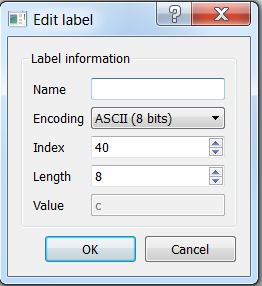
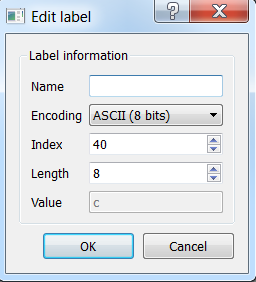
edited user doc

diff --git a/Rapport/docUser/sets.tex b/Rapport/docUser/sets.tex
@@ -1,7 +1,7 @@
-Avant toute chose, il est nécessaire de créer ou d'ouvrir un set; un set correspond à un groupe de dumps qui seront ouvert en même temps.
+Avant toute chose, il est nécessaire de créer ou d'ouvrir un set de dumps; un set de dumps correspond à un groupe de dumps qui seront ouvert en même temps. Nous appellerons "Set" les sets de dumps.
 Un set peut donc servir soit de fichier "projet", pour réouvrir tout les dumps précédement utilisés, ou de groupe de dumps similaires.
-Un set est un fichier avec l'extention .mk qui contient les adresses sur le disque des dumps à ouvrir; si vous avez une erreur au chargement d'un set, vérifiez si les dumps sont aux bons endroits.
+Un set est un fichier avec l'extention .ds qui contient les adresses sur le disque des dumps à ouvrir; si vous avez une erreur au chargement d'un set, vérifiez si les dumps sont aux bons endroits.
 Dans le cas de la création d'un set, il faudra le nommer (en cliquant dessus) puis lui rajouter des dumps. Cela s'effectue en cliquant sur "Dumps/Add Dump".
-Il peut arriver qu'un fichier se retrouve par erreur dans un set, ou qu'il ne soit plus nécessaire; la fonction "Dumps/remove Dump" permet de retirer du set le dump sélectionné.
-Les fonctions "Dumps/Save set" et "Dumps/Save set as ..." permettent de sauvegarder un set, pour pouvoir reprendre le travail plus tard sur les mêmes données. Un set ne contients que les positions des Dumps, veillez à ne pas déplacer vos dumps ou les supprimer, ou vous risqueriez de provoquer des erreurs !
+Il peut arriver qu'un fichier se retrouve par erreur dans un set, ou qu'il ne soit plus nécessaire; la fonction Remove Dump du menu Dump permet de retirer du set le dump sélectionné.
+Les fonctions "Save set" et "Save set as ..." du menu Dump permettent de sauvegarder un set, pour pouvoir reprendre le travail plus tard sur les mêmes données. Un set ne contients que les positions des Dumps, veillez à ne pas déplacer vos dumps ou les supprimer, ou vous risqueriez de provoquer des erreurs !
 Un click sur un autre dump actualise l'interface avec ces nouvelles données.

diff --git a/Rapport/docUser/description_interface.tex b/Rapport/docUser/description_interface.tex
@@ -12,10 +12,10 @@ Le premier volet (1) contient la liste des ensembles de dumps actuellement étud
 
 Le second volet (2) affiche la liste des champs identifiés par l'utilisateur. Au fur et à mesure de l'analyse du dump, les données collectées permettent de comprendre la structure du fichier.
 
-La zone d'affichage principale (3) correspond à une visualisation des données du dump, qui peut être sous la forme de texte avec un encodage choisi au préalable comme sur la figure \ref{interface}, ou bien sous forme de bitmap.
+La zone d'affichage principale (3) correspond à une visualisation des données du dump, qui peut être sous la forme de texte avec un encodage choisi au préalable comme sur la figure \ref{interface}, ou bien sous forme de bitmap (voir partie vue).
 
 Les menus donnent accès aux différents outils d'analyse, ainsi qu'à la sauvegarde et au chargement de dumps, de dump sets ou de masques.
 
 L'interface utilisateur est entièrement fluide et les volets peuvent être détachés ou déplacés pour que l'utilisateur puisse organiser son espace de travail comme il le souhaite.
 
-Une description complète du logiciel est disponible dans la documentation utilisateur, où se trouvent également les adresses de télechargement de versions compilées et prêtes à l'emploi pour Windows et Linux.
+Une description complète des fonctionalitées est disponible plus loin dans cette documentation, où se trouvent également les adresses de télechargement de versions compilées et prêtes à l'emploi pour Windows et Linux.

diff --git a/Rapport/docUser/vues.tex b/Rapport/docUser/vues.tex
@@ -1,10 +1,10 @@
-Les vues sont accessibles via les différents onglets. Il y a pour le moment 3 vues :
+Les vues sont accessibles via les différents onglets. Il y a 3 vues différentes :
 \begin{description}
   \item[Text] \hfill \\
-  Elle permet de visualiser l'intégralitée du dump sous l'encodage spécifié dans le selecteur "Encoding". Le décalage peut être géré via la case Offset. L'utilisation du bouton Add et de la case Label Name sera décrite dans la partie Labels.
+  Elle permet de visualiser l'intégralitée du dump sous l'encodage spécifié dans le selecteur "Encoding". Le décalage peut être géré via la case Offset. Le bouton Add et de la case Label Name permettent d'ajouter de nouveaux labels. Leur fonctionnement détaillé est décrit dans la partie Labels.
   
   \item[Hexadecimal] \hfill \\
-  Elle permet de visualiser le dump sous forme hexadécimale. Le nombre de bits est visible sur la gauche. Cette vue permet entre autre de repérer les motifs qui se répètent, tels que les séparateurs.
+  Elle permet de visualiser le dump sous forme hexadécimale. L'offset est visible sur la gauche. Cette vue permet entre autre de repérer les motifs qui se répètent, tels que les séparateurs.
 
   \item[Bitmap] \hfill \\
   Elle permet de visualiser le dump courant sous forme de carrés de couleur. Cette vue permet entre autre de repérer les morceaux qui se répètent.

diff --git a/Rapport/docUser/algorithms-dotplot.tex b/Rapport/docUser/algorithms-dotplot.tex
@@ -2,7 +2,7 @@ Cette fonction, accessible via le menu Algorithms, permet d'afficher les segment
 
 \begin{figure}[!h]
   \begin{center}
-  \includegraphics[width=\textwidth]{dotplotdialog.png}
+  \includegraphics[scale=1]{dotplotdialog.png}
   \caption{Fenetre de lancement du Dot Plot Pattern}
   \label{dotplotdialog}
   \end{center}
@@ -14,7 +14,7 @@ Les deux champs suivant permettent de sélctionner les deux dumps qui seront uti
 Après appui sur le bouton \emph{OK}, on obtient la fenètre suivante :
 \begin{figure}[!h]
   \begin{center}
-  \includegraphics[width=\textwidth]{dotplotdialog.png}
+  \includegraphics[scale=1]{dotplotdialog.png}
   \caption{Fenetre de lancement du Dot Plot Pattern}
   \label{dotplotdialog}
   \end{center}

diff --git a/Rapport/docUser/labels.tex b/Rapport/docUser/labels.tex
@@ -8,7 +8,7 @@ Si une erreur s'est glissée dans vos données, vous pouvez :
 	
 	\begin{figure}[!h]
 		\begin{center}
-		\includegraphics[width=\textwidth]{Edit_label.png}
+		\includegraphics[scale=1]{Edit_label.png}
 		\caption{Fenètre d'édition des labels}
 		\label{editlabel}
 		\end{center}
